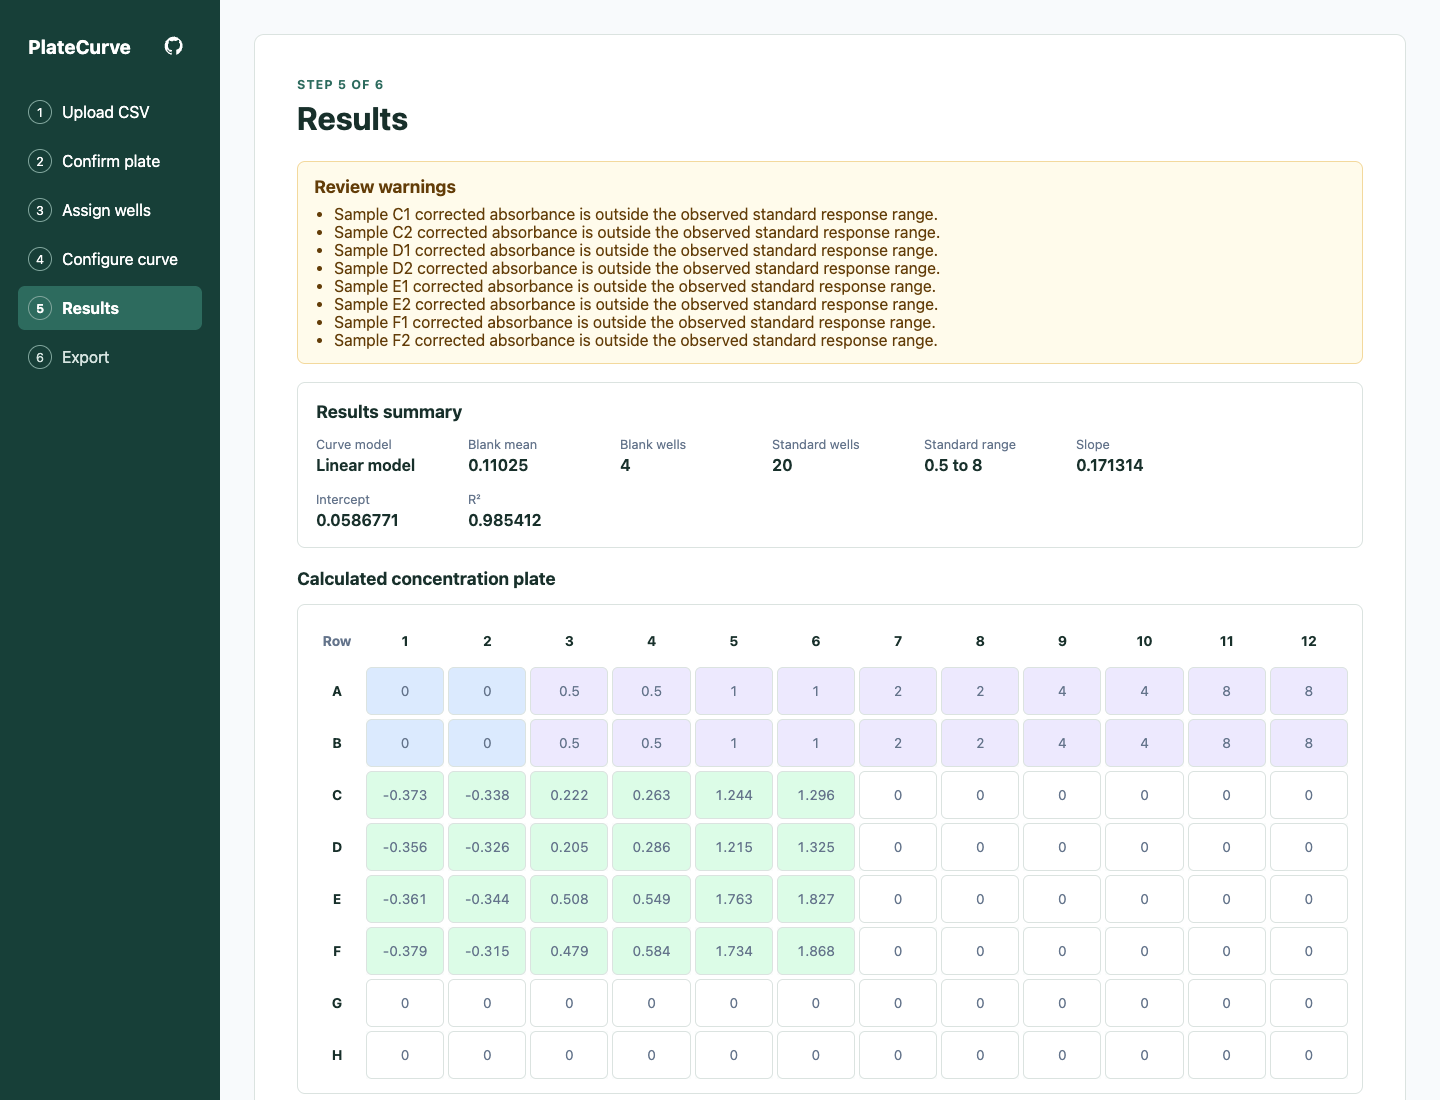
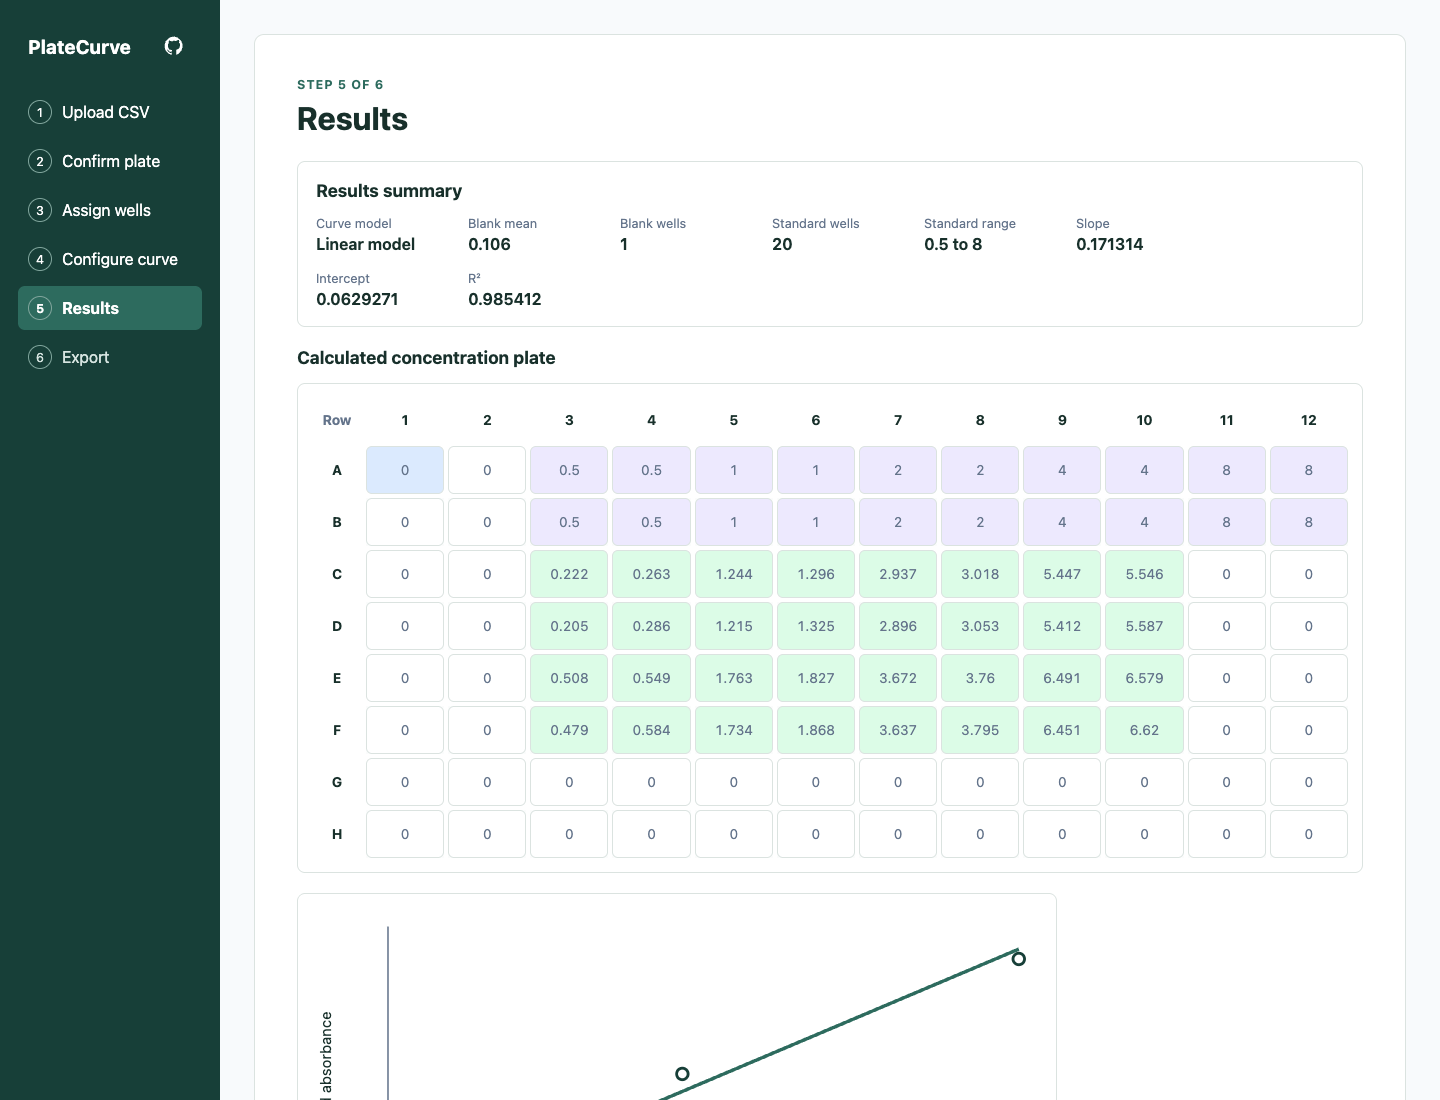
docs: refresh positive screenshots

diff --git a/README.md b/README.md
@@ -25,10 +25,6 @@ PlateCurve runs entirely in the browser. Upload plate data as a csv or xlsx., as
 
 ![Assign wells](docs/screenshots/02-assign-wells.png)
 
-### Configure Curve
-
-![Configure curve](docs/screenshots/03-configure-curve.png)
-
 ### Results
 
 ![Calculated concentration results](docs/screenshots/04-results.png)